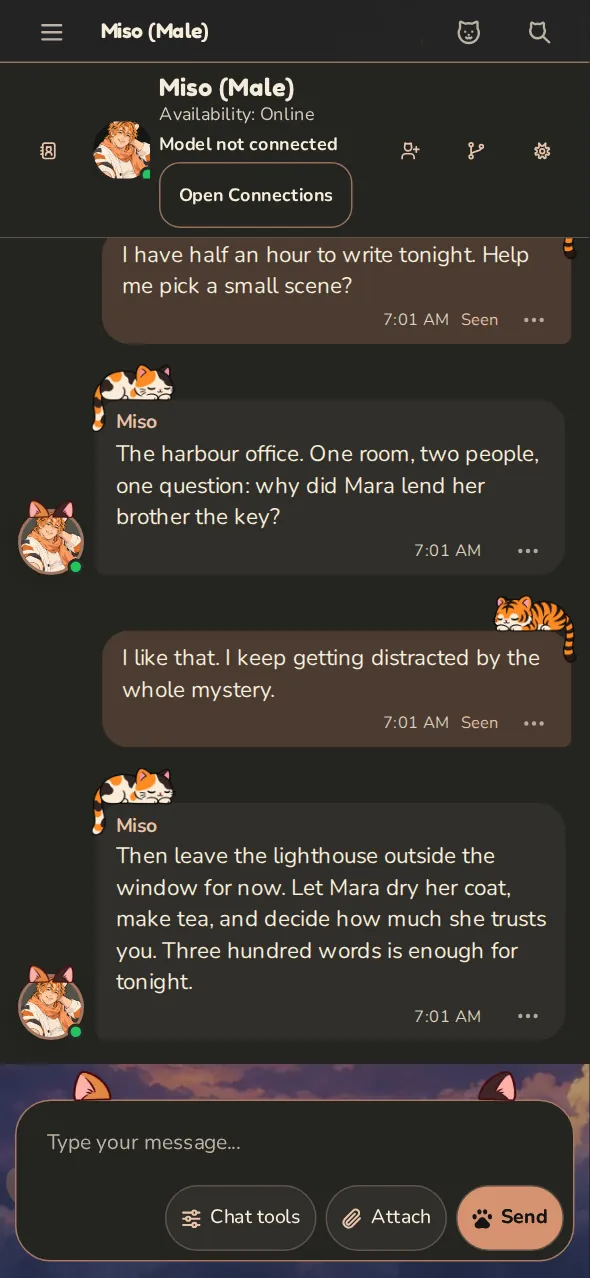
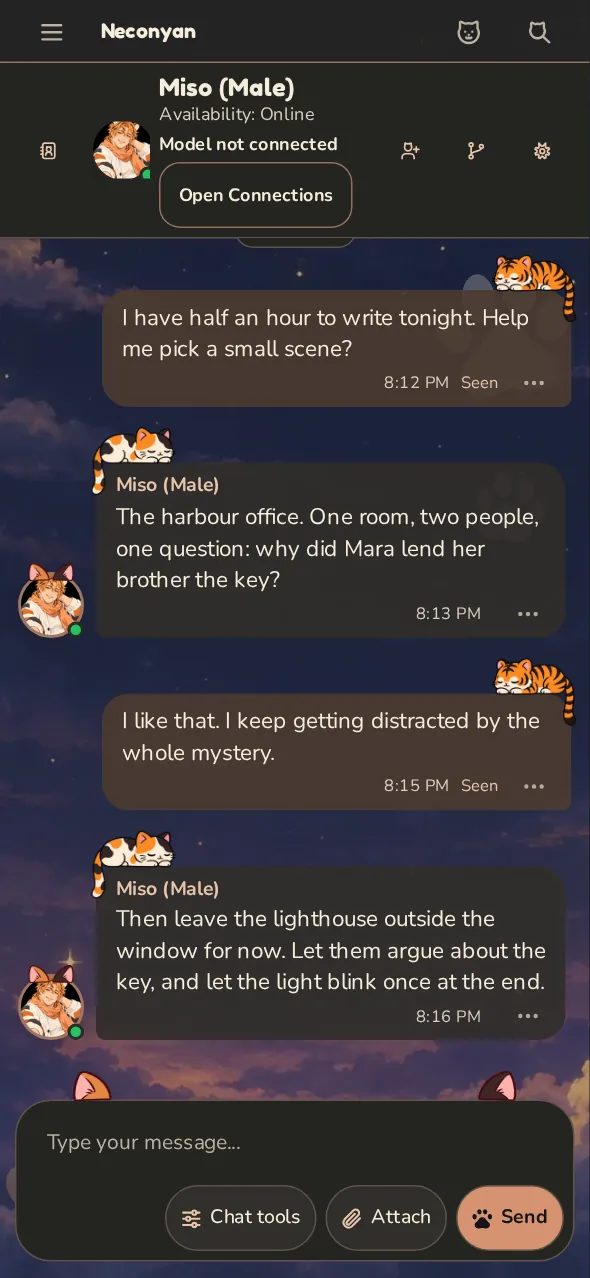
docs: retake the screenshots for 1.6.0
I retook every workspace screenshot from the 1.6.0 release branch on 27 November 2026, so the handbook shows the same app as the README. ASSETS.md records how I captured them.

diff --git a/ASSETS.md b/ASSETS.md
@@ -4,17 +4,11 @@ The bundled artwork was copied from [Neconyan at 6e0269d0](https://github.com/pl
 
 ## Screenshots
 
-I captured these screenshots on 18 November 2026 from [Neconyan at 6b6a8696](https://github.com/platberlitz/Neconyan/tree/6b6a8696), a 1.5.6 staging build with the Catline cat pile for Extensions. Home, Roleplay, Catelier, Simple Mode, Conversation, Meower, Story Mode, Notebooks, Scratchpad, Agents, Proofreader and Device sync each have a desktop and phone image. There's also a phone shot of the open workspace menu, where the new icon is visible. The app README and this handbook use identical copies.
+I captured these screenshots on 27 November 2026 from the `chore/release-1.6.0` branch of Neconyan. Its app code is identical to [Neconyan at 73555b9c](https://github.com/platberlitz/Neconyan/tree/73555b9c888a11d32519b179e56c860b89ec6cff), the 1.6.0 staging candidate; the branch only changes documentation, help text and tests. Home, Roleplay, Catelier, Conversation, Meower, Story Mode, Notebooks, Scratchpad, Agents, Proofreader, Device sync and three Simple Mode views each have a desktop and phone image. There's also a phone shot of the open workspace menu. The app README uses identical copies, plus three Simple Mode images the handbook doesn't show (`desktop-simple-ask.webp`, `phone-simple-ask.webp` and `phone-simple-menu.webp`).
 
-The captures use disposable demonstration data: Calico Dark with its default accent, bundled assistants and staged chats, posts, notes, a character dossier and a Scratchpad discussion. I set Background Visibility to 0% for opaque reading panels; the wallpaper still shows behind Home and the chat, as it should at every setting. The default colours and visibility setting were checked before every capture. No personal account data was used. The Proofreader example runs the real Agent workflow with one intercepted provider request returning a fixed sample response; its edit, Undo and Redo were checked again at both widths. It isn't a live model demonstration. No external model requests were made.
+The captures use a disposable data root with demonstration data only: Calico Dark with its default accent and the default accent profiles, **Panel opacity** at 100%, the bundled Miso, Taro and Nori cards, and staged chats, posts, notes, a character dossier and a Scratchpad round table. No personal account data was used, and no model was connected, so the composer shows **Connect**. The Proofreader example runs the real Agent workflow against a small local test service that returns a fixed sample response through a connection profile called 'Demonstration response'. I switched that Agent off again before the other captures. No external model requests were made.
 
-The two Notebooks images, `desktop-notes.webp` and `phone-notes.webp`, are the exception. They were retaken on 18 November 2026 for the decluttered phone layout and copied unchanged from the app README's `docs/readme/` folder, where they were added in [commit 4979d561](https://github.com/platberlitz/Neconyan/commit/4979d561). I didn't capture them for this handbook. The desktop image is 1280×900 and the phone image 393×852 pixels, so the phone image is smaller than the others.
-
-Version 1.5.6 replaces Background Visibility with **Settings → Appearance → Panels**, which came after the 18 November captures, so panel transparency can look slightly different in the app.
-
-On 20 November 2026 I captured `desktop-simple-chat.webp`, `phone-simple-chat.webp`, `desktop-simple-authors-note.webp` and `phone-simple-authors-note.webp` from [Neconyan at da76c549](https://github.com/platberlitz/Neconyan/tree/da76c549), the 1.5.7 staging candidate. They use the default Calico Dark accent, **Panel opacity** at 100%, and a saved sample Roleplay chat with the bundled Miso card. I opened the real Author's Note editor and the phone's collapsed chat bar. I didn't send a model request. The app README uses identical copies of these four images.
-
-I used Playwright with Chromium at 1280×900 for desktop with a pixel ratio of 1, and 393×852 with touch emulation for phone at a pixel ratio of 1.5. The saved images are 1280×900 and 590×1278 pixels. These are browser viewport captures, not physical-phone or Safari verification. I converted them to WebP at quality 80, method 6, without resizing or compositing interface elements.
+I used Playwright with Chromium at 1280×900 for desktop with a pixel ratio of 1, and 393×852 with touch emulation for phone at a pixel ratio of 1.5, with reduced motion on. The saved images are 1280×900 and 590×1278 pixels. These are browser viewport captures, not physical-phone or Safari verification. I converted them to WebP at quality 80, method 6, without resizing or compositing interface elements.
 
 ## Assistant artwork
 
